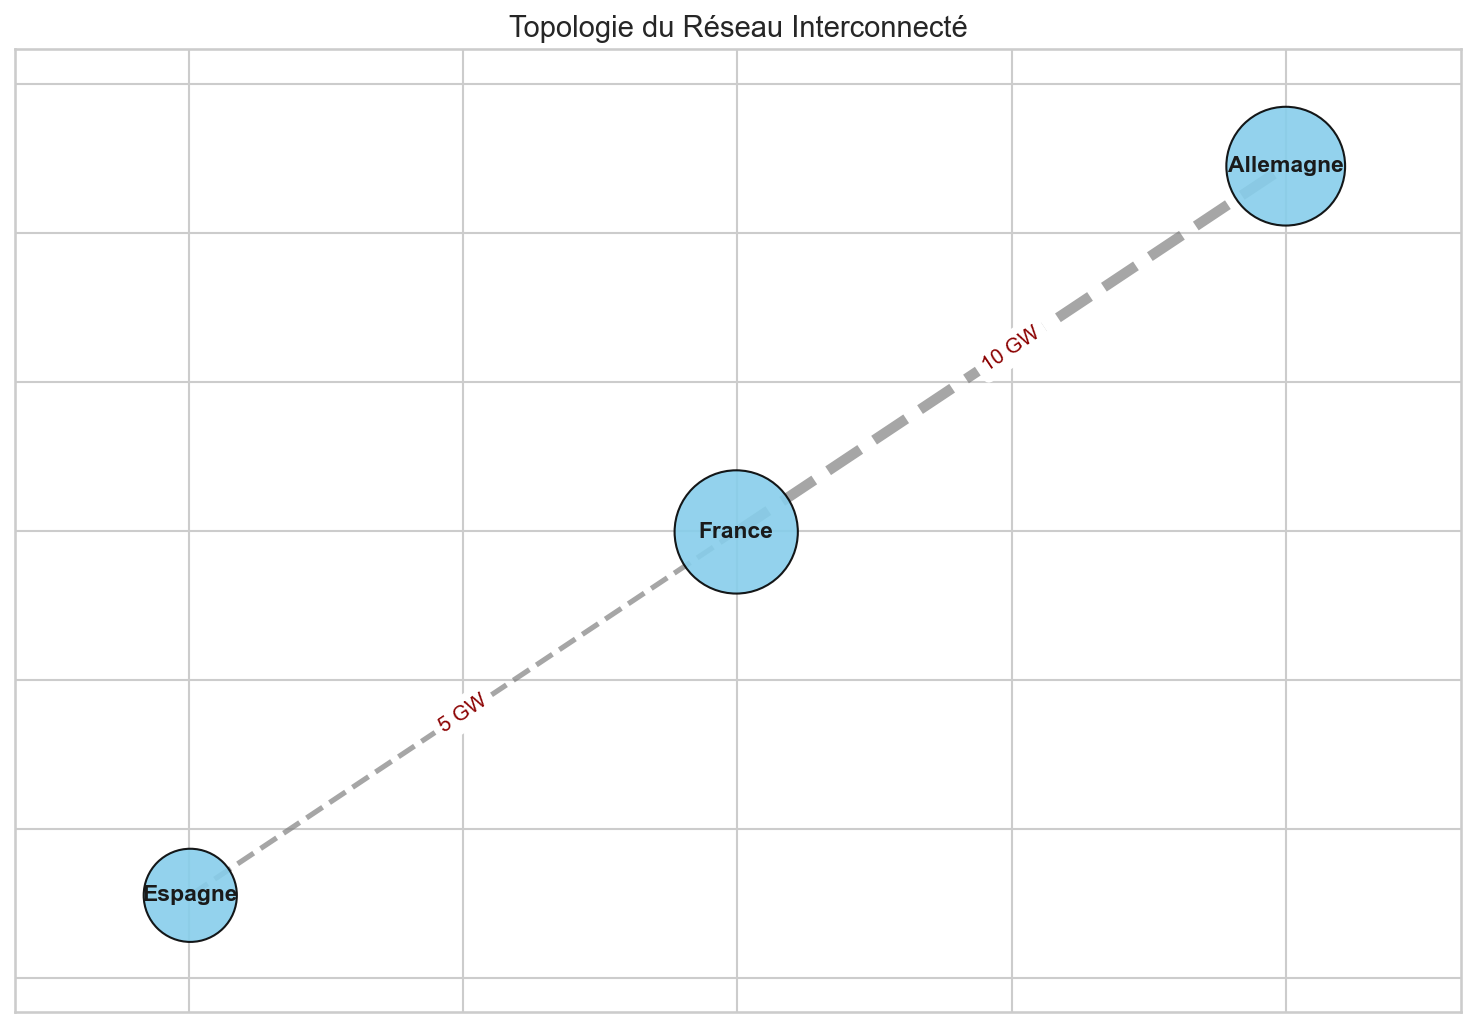
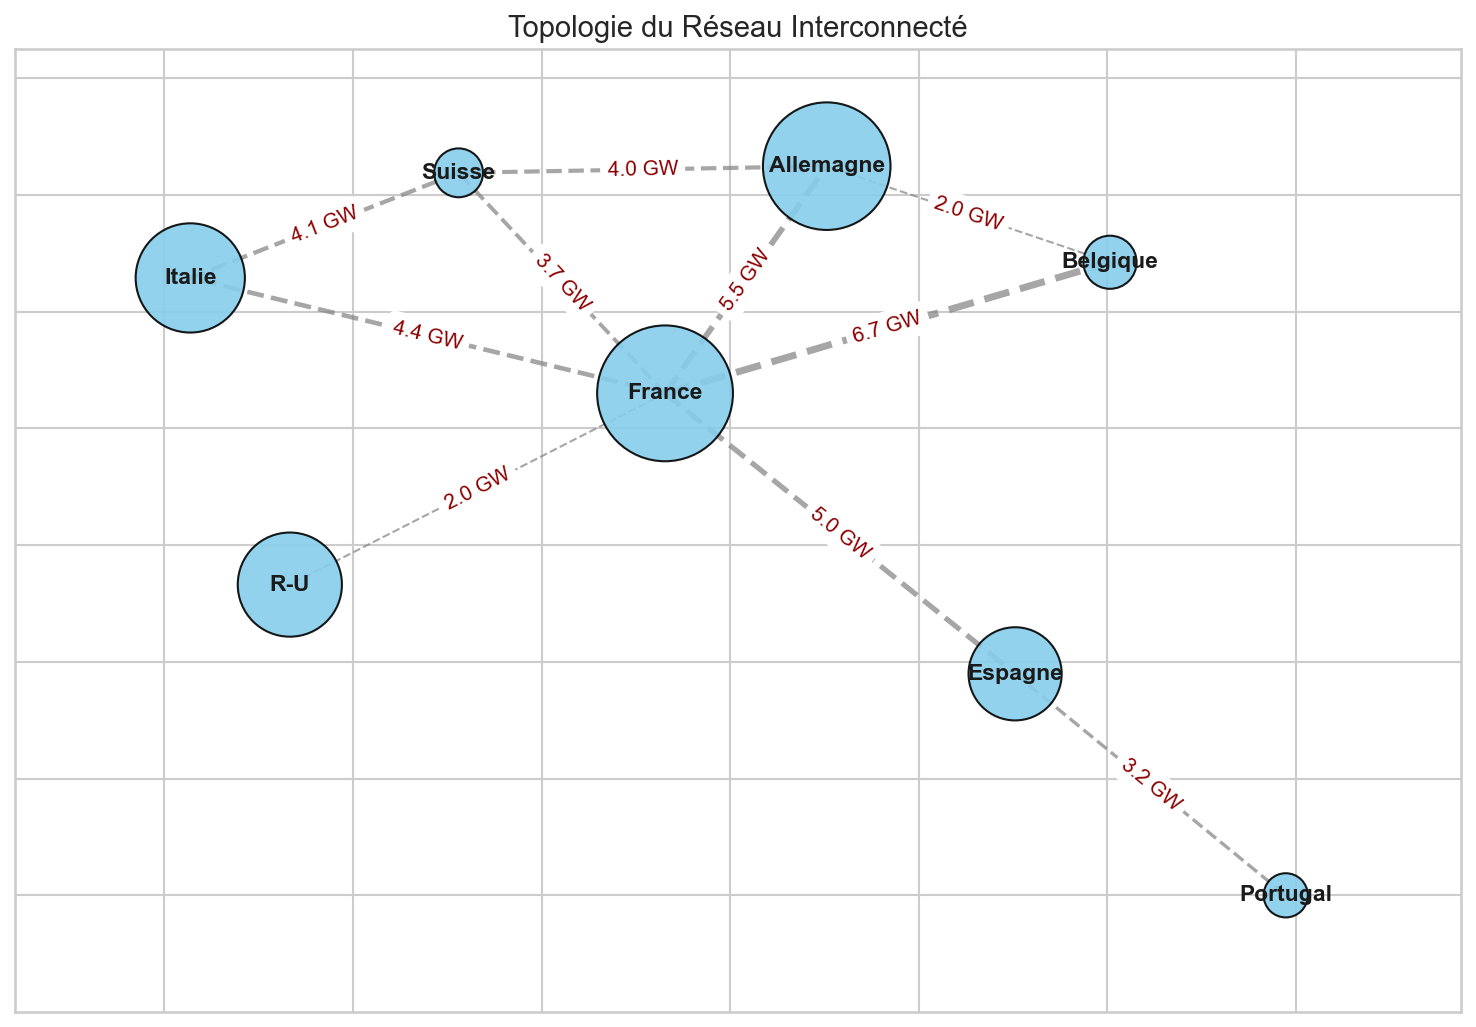
grid simu

diff --git a/code_alex_alban/flexibility/grid_simulation.py b/code_alex_alban/flexibility/grid_simulation.py
@@ -1,5 +1,6 @@
 import os
 import numpy as np
+import pandas as pd
 import matplotlib.pyplot as plt
 import networkx as nx
 import seaborn as sns
@@ -14,8 +15,8 @@ class Grid:
         # Constantes d'inertie typiques (H en secondes)
         self.inertia_constants = {
             "Nucleaire": 6.0,   # Très haute inertie (grosses masses tournantes)
-            "Thermique": 5.0,   # Haute (Gaz/Charbon)
-            "Hydraulique": 4.0, # Moyenne
+            "Thermique": 3.0,   # Haute (Gaz/Charbon)
+            "Hydraulique": 2.0, # Moyenne
             "Eolien": 0.5,      # Faible (découplé par onduleur, contribution via "inertie synthétique")
             "Solaire": 0.0      # Nulle
         }
@@ -31,101 +32,158 @@ class Grid:
             total_inertia_gws += 2 * H * power_gw
         return total_inertia_gws
 
+    def get_swing_constant(self):
+        """Retourne la constante 2H/f0 pour l'équation d'oscillation."""
+        f0 = 50.0
+        # Calcule M = 2 * H_grid / f0, où H_grid est l'inertie de ce seul réseau
+        # H_grid = (Somme de 2*Hi*Si) / (2 * S_grid)
+        # M = (Somme de 2*Hi*Si) / (f0 * S_grid)
+        # Pour la simulation, nous utiliserons l'inertie totale en GW.s (2*H*S)
+        # donc M_gws = 2 * H_grid * S_grid = self.inertia
+        return self.inertia / f0
+
 class InterconnectedGrid:
     """Simule un ensemble de réseaux interconnectés."""
     def __init__(self, name, grids, interconnections):
         self.name = name
         self.grids = {grid.name: grid for grid in grids}
-        self.interconnections = interconnections # liste de tuples (grid1, grid2, capacity_gw)
+        self.interconnections = interconnections # liste de tuples (grid1_name, grid2_name, capacity_gw)
         
         self.total_demand = sum(g.total_demand_gw for g in grids)
         self.total_inertia = sum(g.inertia for g in grids)
         self.H_equivalent = self.total_inertia / (2 * self.total_demand)
 
+        # Créer le graphe du réseau pour la simulation dynamique
+        self.graph = nx.Graph()
+        for grid in grids:
+            self.graph.add_node(grid.name, grid_obj=grid)
+        for g1_name, g2_name, capacity in interconnections:
+            # La synchronisation est proportionnelle à la capacité de l'interconnexion
+            # C'est une simplification. En réalité, cela dépend de l'impédance de la ligne.
+            synchronizing_power_coeff = capacity * 10 # Coefficient de puissance de synchronisation (simplifié)
+            self.graph.add_edge(g1_name, g2_name, weight=synchronizing_power_coeff)
+
     def run_incident(self, incident_grid_name, loss_gw, duration=20):
-        """Simule une perte brutale de production sur un des réseaux."""
+        """
+        Simule une perte brutale de production sur un des réseaux.
+        Ce modèle est une simplification de l'équation d'oscillation multi-machines.
+        """
         dt = 0.05  # Pas de temps
         time = np.arange(0, duration, dt)
-        freq = np.zeros_like(time)
-        power_balance = np.zeros_like(time)
-        rocof = np.zeros_like(time)
-
         f0 = 50.0  # Fréquence nominale
-        freq[0] = f0
 
-        # Paramètres de réponse du réseau
-        governor_response_time = 5.0  # Temps pour que les vannes s'ouvrent (réglage primaire)
-        
-        current_loss = 0
+        # Initialisation des états pour chaque réseau
+        grid_names = list(self.grids.keys())
+        frequencies = {name: np.zeros_like(time) for name in grid_names}
+        angles = {name: np.zeros_like(time) for name in grid_names}
+        for name in grid_names:
+            frequencies[name][0] = f0
+
+        # Paramètres de réponse primaire (gouverneurs)
+        governor_response_time = 5.0 
 
         for i in range(1, len(time)):
+            # L'incident survient à t=1s
+            power_loss_at_t = loss_gw if time[i] >= 1.0 else 0
+
+            # Réponse primaire de chaque réseau (contribution proportionnelle à sa puissance)
+            total_primary_response = 0
+            if time[i] > 1.0:
+                total_primary_response = (loss_gw * (1 - np.exp(-(time[i] - 1) / governor_response_time)))
+
+            for name, grid in self.grids.items():
+                # 1. Calcul du déséquilibre de puissance pour chaque réseau
+                
+                # Puissance échangée avec les voisins (dépend des différences d'angle)
+                power_exchange = 0
+                for neighbor in self.graph.neighbors(name):
+                    edge_data = self.graph.get_edge_data(name, neighbor)
+                    # P = P_max * sin(delta_angle)
+                    power_exchange += edge_data['weight'] * np.sin(angles[neighbor][i-1] - angles[name][i-1])
+
+                # Déséquilibre local
+                local_imbalance = 0
+                
+                # Perte de production
+                if name == incident_grid_name:
+                    local_imbalance -= power_loss_at_t
+                
+                # Contribution à la réponse primaire (simplifié : proportionnel à la demande)
+                primary_response_share = total_primary_response * (grid.total_demand_gw / self.total_demand)
+                local_imbalance += primary_response_share
+
+                # Bilan de puissance du noeud
+                delta_P = local_imbalance + power_exchange
+
+                # 2. Mise à jour de la fréquence et de l'angle (Swing Equation pour chaque noeud)
+                # M * d(omega)/dt = Delta_P => d(omega) = (Delta_P / M) * dt
+                # M = 2*H*S / f0 = Inertia_GWs / f0
+                M_gws_per_f0 = grid.get_swing_constant()
+                
+                delta_omega = (delta_P / M_gws_per_f0) * dt
+                new_omega = (2 * np.pi * frequencies[name][i-1]) + delta_omega
+
+                frequencies[name][i] = new_omega / (2 * np.pi)
+                angles[name][i] = angles[name][i-1] + delta_omega * dt
+
             # À t=1s, l'incident survient
-            if time[i] >= 1.0:
-                current_loss = loss_gw
-
-            # Réponse du réglage primaire (les centrales augmentent leur prod)
-            # Modèle simplifié du premier ordre
-            primary_response = (loss_gw * (1 - np.exp(-(time[i] - 1) / governor_response_time))) if time[i] > 1 else 0
-
-            # Bilan de puissance (Production - Perte + Réponse - Demande)
-            # Si delta_P est négatif, la fréquence chute
-            delta_P = -current_loss + primary_response
-
-            # ÉQUATION D'OSCILLATION (Swing Equation), df/dt = RoCoF
-            rocoF = (f0 / (2 * self.H_equivalent)) * (delta_P / self.total_demand)
-
-            # Mise à jour de la fréquence
-            freq[i] = freq[i-1] + rocoF * dt
-            
-            # Enregistrement des valeurs pour l'analyse
-            power_balance[i] = delta_P
-            rocof[i] = rocoF
-
-            # Simulation du délestage (Load Shedding) si on touche 49.0 Hz
-            if freq[i] < 49.0:
-                freq[i] = 49.0  # On suppose que le réseau coupe des clients pour survivre
-
-        return time, freq, power_balance, rocof
+        return time, frequencies
 
 # --- DÉFINITION DES SCÉNARIOS ---
 
-# --- Scénario 1 : Mix "Hiver Solidaire" (Haute inertie) ---
-grid_fr_hiver = Grid("France", {"Nucleaire": 65, "Hydraulique": 15, "Eolien": 10, "Thermique": 5, "Solaire": 5}, total_demand_gw=70)
-grid_de_hiver = Grid("Allemagne", {"Thermique": 40, "Eolien": 30, "Solaire": 10, "Nucleaire": 10, "Hydraulique": 10}, total_demand_gw=65)
-grid_es_hiver = Grid("Espagne", {"Eolien": 30, "Thermique": 25, "Solaire": 20, "Nucleaire": 15, "Hydraulique": 10}, total_demand_gw=40)
+# --- Scénario 1 : "France Nucléaire" (Haute inertie) ---
+grid_fr_scen1 = Grid("France", {"Nucleaire": 75, "Hydraulique": 10, "Eolien": 5, "Thermique": 5, "Solaire": 5}, total_demand_gw=85)
+grid_de_scen1 = Grid("Allemagne", {"Thermique": 35, "Eolien": 35, "Solaire": 5, "Nucleaire": 5, "Hydraulique": 20}, total_demand_gw=75)
+grid_es_scen1 = Grid("Espagne", {"Eolien": 35, "Thermique": 20, "Solaire": 15, "Nucleaire": 20, "Hydraulique": 10}, total_demand_gw=40)
+grid_it_scen1 = Grid("Italie", {"Thermique": 55, "Solaire": 5, "Hydraulique": 25, "Eolien": 15}, total_demand_gw=55)
+grid_ch_scen1 = Grid("Suisse", {"Hydraulique": 55, "Nucleaire": 40, "Solaire": 5}, total_demand_gw=11)
+grid_be_scen1 = Grid("Belgique", {"Thermique": 45, "Nucleaire": 25, "Eolien": 20, "Solaire": 10}, total_demand_gw=13)
+grid_pt_scen1 = Grid("Portugal", {"Hydraulique": 40, "Eolien": 30, "Thermique": 20, "Solaire": 10}, total_demand_gw=9)
+grid_uk_scen1 = Grid("R-U", {"Thermique": 40, "Eolien": 35, "Nucleaire": 15, "Solaire": 5, "Hydraulique": 5}, total_demand_gw=50)
 
-interco_hiver = [
-    (grid_fr_hiver, grid_de_hiver, 10),
-    (grid_fr_hiver, grid_es_hiver, 5)
+interco_scen1 = [
+    ("France", "Allemagne", 5.5), ("France", "Espagne", 5.0), ("France", "Italie", 4.4),
+    ("France", "Suisse", 3.7), ("France", "Belgique", 6.7), ("France", "R-U", 2.0),
+    ("Espagne", "Portugal", 3.2),
+    ("Allemagne", "Suisse", 4.0), ("Allemagne", "Belgique", 2.0),
+    ("Suisse", "Italie", 4.1)
 ]
 
-system_hiver = InterconnectedGrid(
-    "Europe - Hiver (Haute Inertie)",
-    [grid_fr_hiver, grid_de_hiver, grid_es_hiver],
-    interco_hiver
+system_scen1 = InterconnectedGrid(
+    "France Nucléaire (Haute Inertie)",
+    [grid_fr_scen1, grid_de_scen1, grid_es_scen1, grid_it_scen1, grid_ch_scen1, grid_be_scen1, grid_pt_scen1, grid_uk_scen1],
+    interco_scen1
 )
 
-# --- Scénario 2 : Mix "Été Renouvelable" (Basse inertie) ---
-grid_fr_ete = Grid("France", {"Solaire": 30, "Nucleaire": 30, "Eolien": 20, "Hydraulique": 15, "Thermique": 5}, total_demand_gw=50)
-grid_de_ete = Grid("Allemagne", {"Solaire": 40, "Eolien": 30, "Thermique": 15, "Hydraulique": 10, "Nucleaire": 5}, total_demand_gw=55)
-grid_es_ete = Grid("Espagne", {"Solaire": 45, "Eolien": 30, "Thermique": 10, "Nucleaire": 10, "Hydraulique": 5}, total_demand_gw=35)
+# --- Scénario 2 : "France Renouvelable" (Basse inertie) ---
+grid_fr_scen2 = Grid("France", {"Solaire": 40, "Eolien": 25, "Nucleaire": 20, "Hydraulique": 10, "Thermique": 5}, total_demand_gw=55)
+grid_de_scen2 = Grid("Allemagne", {"Solaire": 40, "Eolien": 30, "Thermique": 15, "Hydraulique": 10, "Nucleaire": 5}, total_demand_gw=60)
+grid_es_scen2 = Grid("Espagne", {"Solaire": 45, "Eolien": 25, "Thermique": 15, "Nucleaire": 10, "Hydraulique": 5}, total_demand_gw=40)
+grid_it_scen2 = Grid("Italie", {"Solaire": 35, "Thermique": 30, "Hydraulique": 20, "Eolien": 15}, total_demand_gw=58)
+grid_ch_scen2 = Grid("Suisse", {"Hydraulique": 60, "Solaire": 15, "Nucleaire": 25}, total_demand_gw=9)
+grid_be_scen2 = Grid("Belgique", {"Solaire": 30, "Eolien": 30, "Thermique": 25, "Nucleaire": 15}, total_demand_gw=10)
+grid_pt_scen2 = Grid("Portugal", {"Solaire": 40, "Hydraulique": 30, "Eolien": 20, "Thermique": 10}, total_demand_gw=8)
+grid_uk_scen2 = Grid("R-U", {"Solaire": 30, "Eolien": 35, "Thermique": 20, "Nucleaire": 10, "Hydraulique": 5}, total_demand_gw=35)
 
-interco_ete = [
-    (grid_fr_ete, grid_de_ete, 10),
-    (grid_fr_ete, grid_es_ete, 5)
+interco_scen2 = [
+    ("France", "Allemagne", 5.5), ("France", "Espagne", 5.0), ("France", "Italie", 4.4),
+    ("France", "Suisse", 3.7), ("France", "Belgique", 6.7), ("France", "R-U", 2.0),
+    ("Espagne", "Portugal", 3.2),
+    ("Allemagne", "Suisse", 4.0), ("Allemagne", "Belgique", 2.0),
+    ("Suisse", "Italie", 4.1)
 ]
 
-system_ete = InterconnectedGrid(
-    "Europe - Été (Basse Inertie)",
-    [grid_fr_ete, grid_de_ete, grid_es_ete],
-    interco_ete
+system_scen2 = InterconnectedGrid(
+    "France Renouvelable (Basse Inertie)",
+    [grid_fr_scen2, grid_de_scen2, grid_es_scen2, grid_it_scen2, grid_ch_scen2, grid_be_scen2, grid_pt_scen2, grid_uk_scen2],
+    interco_scen2
 )
 
 # --- EXÉCUTION ---
 
 # Incident majeur : Perte de 5 GW en France (ex: 3 EPR + 1 autre réacteur, ou une ligne HVDC majeure)
 loss_of_generation_gw = 5.0
-
+INCIDENT_COUNTRY = "Espagne"
 # --- VISUALISATION ---
 
 def plot_network_topology(system, output_dir):
@@ -139,8 +197,8 @@ def plot_network_topology(system, output_dir):
         G.add_node(grid.name, size=grid.total_demand_gw)
 
     # Ajout des liens (interconnexions) avec leur capacité comme poids
-    for grid1, grid2, capacity in system.interconnections:
-        G.add_edge(grid1.name, grid2.name, capacity=capacity)
+    for g1_name, g2_name, capacity in system.interconnections:
+        G.add_edge(g1_name, g2_name, capacity=capacity)
 
     pos = nx.spring_layout(G, seed=42)
     node_sizes = [d['size'] * 50 for n, d in G.nodes(data=True)]
@@ -163,93 +221,105 @@ def plot_network_topology(system, output_dir):
     print(f"Graphique sauvegardé dans : {output_path}")
     plt.close()
 
-def plot_frequency_drop(t1, f1, sim1, t2, f2, sim2, duration, output_dir):
+def plot_frequency_drop(t, freqs, system, duration, output_dir, filename):
+    """Affiche la chute de fréquence pour le point le plus faible du réseau."""
     plt.figure(figsize=(12, 7))
-    plt.plot(t1, f1, label=f'{sim1.name} (H_eq={sim1.H_equivalent:.2f}s)', color='royalblue', linewidth=2.5)
-    plt.plot(t2, f2, label=f'{sim2.name} (H_eq={sim2.H_equivalent:.2f}s)', color='crimson', linewidth=2.5)
+    
+    # Trouver la fréquence minimale sur l'ensemble des réseaux pour la légende
+    min_freq = 50.0
+    for name, f_values in freqs.items():
+        min_f = np.min(f_values)
+        if min_f < min_freq:
+            min_freq = min_f
+
+    # Pour la simplicité du graphique principal, on affiche la fréquence du pays de l'incident
+    plt.plot(t, freqs[INCIDENT_COUNTRY], label=f'{system.name}\nNadir: {min_freq:.3f} Hz\nH_eq={system.H_equivalent:.2f}s', linewidth=2.5)
+    
     plt.axhline(y=49.0, color='black', linestyle='--', label='Seuil de délestage')
     plt.axhline(y=49.8, color='gray', linestyle=':', label='Seuil d\'alerte')
-    plt.title("Chute de Fréquence du Réseau", fontsize=16)
+    plt.title(f"Chute de Fréquence Globale - Scénario {system.name}", fontsize=16)
     plt.ylabel("Fréquence (Hz)", fontsize=12)
     plt.xlabel("Temps (secondes)", fontsize=12)
-    # plt.ylim(49.2, 50.1)
     plt.xlim(0, duration)
     plt.legend()
     plt.grid(True, which='both', linestyle='--', linewidth=0.5)
     plt.tight_layout()
-    output_path = os.path.join(output_dir, "01_frequency_drop.png")
+    output_path = os.path.join(output_dir, filename)
     plt.savefig(output_path, dpi=150, bbox_inches='tight')
     print(f"Graphique sauvegardé dans : {output_path}")
     plt.close()
 
-def plot_power_balance(t1, p1, sim1, t2, p2, sim2, loss_gw, duration, output_dir):
+def plot_individual_frequency(t, freqs, system, incident_country, duration, output_dir, filename):
+    """Affiche la chute de fréquence pour chaque pays individuellement."""
     plt.figure(figsize=(12, 7))
-    plt.plot(t1, p1, color='royalblue', label=sim1.name)
-    plt.plot(t2, p2, color='crimson', label=sim2.name)
-    plt.title("Bilan de Puissance (Déséquilibre)", fontsize=16)
-    plt.ylabel("Puissance (GW)", fontsize=12)
-    plt.xlabel("Temps (secondes)", fontsize=12)
-    plt.text(1.1, -loss_gw + 0.2, f'Perte de {loss_gw} GW', color='black', ha='left')
-    plt.xlim(0, duration)
-    plt.legend()
-    plt.grid(True, which='both', linestyle='--', linewidth=0.5)
-    plt.tight_layout()
-    output_path = os.path.join(output_dir, "02_power_balance.png")
-    plt.savefig(output_path, dpi=150, bbox_inches='tight')
-    print(f"Graphique sauvegardé dans : {output_path}")
-    plt.close()
+    
+    # Trier les pays par "proximité" à l'incident pour un dégradé de couleurs
+    distances = nx.shortest_path_length(system.graph, source=incident_country)
+    sorted_grids = sorted(distances.keys(), key=lambda name: distances[name])
+    
+    colors = plt.cm.viridis(np.linspace(0, 1, len(sorted_grids)))
 
-def plot_rocof(t1, r1, sim1, t2, r2, sim2, duration, output_dir):
-    plt.figure(figsize=(12, 7))
-    plt.plot(t1, r1 * 60, color='royalblue', label=sim1.name) # Hz/min
-    plt.plot(t2, r2 * 60, color='crimson', label=sim2.name)
-    plt.title("Vitesse de Chute de la Fréquence (RoCoF)", fontsize=16)
-    plt.ylabel("RoCoF (Hz/minute)", fontsize=12)
+    for i, name in enumerate(sorted_grids):
+        nadir = np.min(freqs[name])
+        plt.plot(t, freqs[name], label=f"{name} (Nadir: {nadir:.3f} Hz)", color=colors[i], alpha=0.8)
+
+    plt.axhline(y=49.0, color='black', linestyle='--', label='Seuil de délestage')
+    plt.title(f"Conséquences de l'incident en {incident_country} sur chaque réseau\n({system.name})", fontsize=16)
+    plt.ylabel("Fréquence (Hz)", fontsize=12)
     plt.xlabel("Temps (secondes)", fontsize=12)
     plt.xlim(0, duration)
     plt.legend()
     plt.grid(True, which='both', linestyle='--', linewidth=0.5)
     plt.tight_layout()
-    output_path = os.path.join(output_dir, "03_rocof.png")
+    output_path = os.path.join(output_dir, filename)
     plt.savefig(output_path, dpi=150, bbox_inches='tight')
     print(f"Graphique sauvegardé dans : {output_path}")
     plt.close()
 
-def plot_all_results(data1, data2, loss_gw, duration, output_dir="."):
+def plot_all_results(data1, data2, incident_country, loss_gw, duration, output_dir="."):
     """Génère et sauvegarde tous les graphiques de comparaison."""
-    t1, f1, p1, r1, sim1 = data1
-    t2, f2, p2, r2, sim2 = data2
+    t1, freqs1, sim1 = data1
+    t2, freqs2, sim2 = data2
 
     sns.set_theme(style="whitegrid")
     os.makedirs(output_dir, exist_ok=True)
 
     # Générer chaque graphique séparément
     print("\nGénération des graphiques séparés...")
-    plot_frequency_drop(t1, f1, sim1, t2, f2, sim2, duration, output_dir)
-    plot_power_balance(t1, p1, sim1, t2, p2, sim2, loss_gw, duration, output_dir)
-    plot_rocof(t1, r1, sim1, t2, r2, sim2, duration, output_dir)
-    plot_network_topology(sim1, output_dir) # La topologie est la même pour les deux scénarios
+    plot_frequency_drop(t1, freqs1, sim1, duration, output_dir, "01a_frequency_drop_scen1.png")
+    plot_frequency_drop(t2, freqs2, sim2, duration, output_dir, "01b_frequency_drop_scen2.png")
+    
+    plot_individual_frequency(t1, freqs1, sim1, incident_country, duration, output_dir, "02a_individual_freq_scen1.png")
+    plot_individual_frequency(t2, freqs2, sim2, incident_country, duration, output_dir, "02b_individual_freq_scen2.png")
+
+    plot_network_topology(sim1, output_dir) # La topologie est la même, seules les demandes changent
 
 if __name__ == '__main__':
     # --- Paramètres de la simulation ---
-    LOSS_GW = 5.0
+    LOSS_GW = 20.0
     DURATION_S = 20
+    INCIDENT_COUNTRY = "Espagne"
 
     # --- Lancement des simulations ---
-    t1, f1, p1, r1 = system_hiver.run_incident("France", LOSS_GW, DURATION_S)
-    t2, f2, p2, r2 = system_ete.run_incident("France", LOSS_GW, DURATION_S)
+    print("--- Lancement de la simulation Hiver ---")
+    t1, freqs1 = system_scen1.run_incident(INCIDENT_COUNTRY, LOSS_GW, DURATION_S)
+    print("--- Lancement de la simulation Été ---")
+    t2, freqs2 = system_scen2.run_incident(INCIDENT_COUNTRY, LOSS_GW, DURATION_S)
 
     # --- Affichage et sauvegarde des résultats ---
-    print(f"Inertie équivalente - Scénario Hiver : H_eq = {system_hiver.H_equivalent:.2f} s")
-    print(f"Inertie équivalente - Scénario Été : H_eq = {system_ete.H_equivalent:.2f} s")
-    print(f"Chute de fréquence minimale (Nadir) - Hiver : {np.min(f1):.3f} Hz")
-    print(f"Chute de fréquence minimale (Nadir) - Été : {np.min(f2):.3f} Hz")
+    print(f"Inertie équivalente - Scénario 1 : H_eq = {system_scen1.H_equivalent:.2f} s")
+    print(f"Inertie équivalente - Scénario 2 : H_eq = {system_scen2.H_equivalent:.2f} s")
+    
+    nadir_scen1 = np.min([np.min(f) for f in freqs1.values()])
+    nadir_scen2 = np.min([np.min(f) for f in freqs2.values()])
+    print(f"Chute de fréquence minimale (Nadir) - Scénario 1 : {nadir_scen1:.3f} Hz")
+    print(f"Chute de fréquence minimale (Nadir) - Scénario 2 : {nadir_scen2:.3f} Hz")
 
     # Regroupement des données pour le traçage
-    data_hiver = (t1, f1, p1, r1, system_hiver)
-    data_ete = (t2, f2, p2, r2, system_ete)
+    data_scen1 = (t1, freqs1, system_scen1)
+    data_scen2 = (t2, freqs2, system_scen2)
 
-    plot_all_results(data_hiver, data_ete,
+    plot_all_results(data_scen1, data_scen2, INCIDENT_COUNTRY,
                      loss_gw=LOSS_GW,
                      duration=DURATION_S,
                      output_dir="results/grid_stability")
